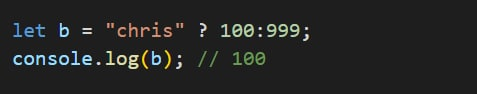
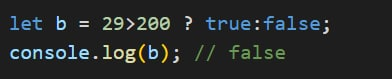
commit7

Changed region(s): [[0.0, 0.2025, 0.8571, 0.4557], [0.0, 0.5316, 0.4592, 0.8101], [0.4898, 0.5316, 0.7347, 0.7848]]

diff --git a/main.js b/main.js
@@ -133,3 +133,7 @@
 
 
 // ternari
+
+let b = 29>200 ? true:false;
+console.log(b); // false
+

diff --git a/README.md b/README.md
@@ -27,7 +27,6 @@
 ![](./img/js8.jpg)
 #
 ## Ternary
-#### Условный (тернарный) оператор - единственный оператор в JavaScript, принимающий три операнда: условие, за которым следует знак вопроса (?), затем выражение, которое выполняется, если условие истинно, сопровождается двоеточием (:), и, наконец, выражение, которое выполняется, если условие ложно. Он часто используется в качестве укороченного варианта условного оператора if.
 ![](./img/js9.jpg)
 #
 # For loop (break/continue) and While loop
